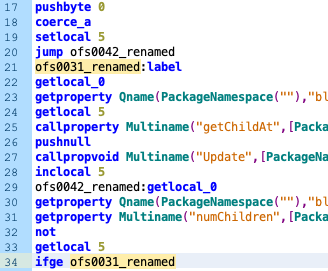
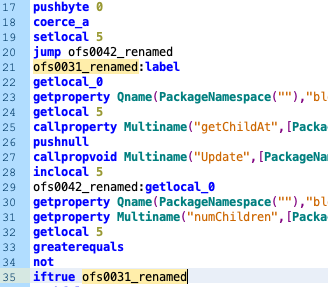
correct BTD3 for loop condition

diff --git a/btd3/index.html b/btd3/index.html
@@ -43,12 +43,12 @@ Open the SWF in FFDec and find the <code>mochicrypt.Preloader</code> script.
 <br>
 <br><h3>BloonsTD patches</h3>
 Open the decrypted SWF, navigate to the <code>BloonsTD</code> class, find the <code>EnterFrame()</code> function, and insert the following code at the start:
-<br><code>for(var i=0;!this.bloonholder.numChildren&gt;=i;i++)
+<br><code>for(var i=0;!(this.bloonholder.numChildren&gt;=i);i++)
 {
 	this.bloonholder.getChildAt(i).Update(null);
 }</code>
 <br>
-<br>However, FFDec's direct AS3 editor will corrupt this script upon saving. Writing P-code (Flash assembly language), is difficult. The easiest solution is to make the change in AS3, copy the equivalent P-code (everything from <code>pushbyte 0</code> to the first <code>ifge</code>), reload the SWF, and then re-insert the P-code.
+<br>However, FFDec's direct AS3 editor will corrupt this script upon saving. Writing P-code (Flash assembly language), is difficult. The easiest solution is to make the change in AS3, copy the equivalent P-code (everything from <code>pushbyte 0</code> to the first <code>iftrue</code>), reload the SWF, and then re-insert the P-code.
 <br>
 <br><img alt="" src="/btd3/pcode1.png"/>
 <br>
